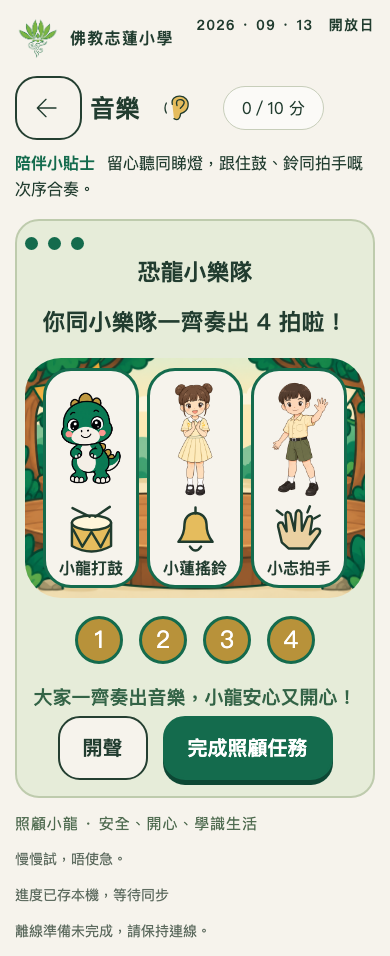
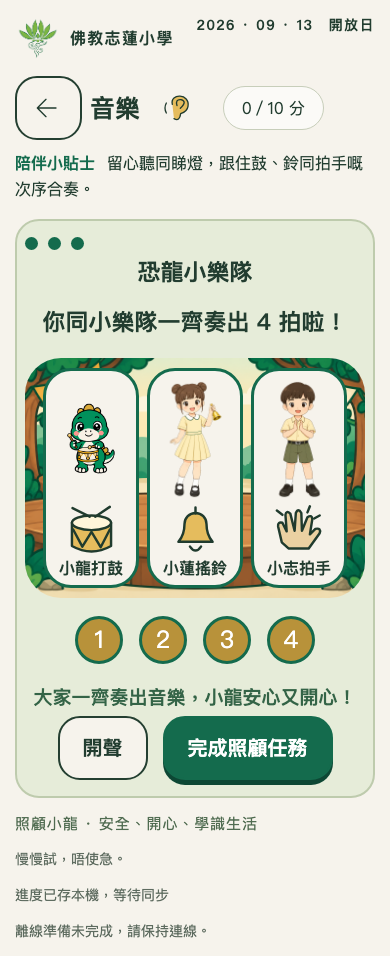
Complete music character sprites and clean up visibility listener

Changed region(s): [[0.1538, 0.3944, 0.3077, 0.5157], [0.7077, 0.3944, 0.8308, 0.546], [0.4308, 0.3944, 0.5846, 0.5157]]

diff --git a/sw.js b/sw.js
@@ -1,7 +1,7 @@
 // Generated precache manifest. Rebuild whenever local assets change.
-const CACHE='dino-island-a9feb54aa8e3';
+const CACHE='dino-island-14a268ecd65b';
 const BASE=new URL('./',self.location.href);
-const ASSETS=["board/board.css","board/board.js","board/img/board-skin.png","board/index.html","hub/app.js","hub/audio/en/actions/freeze.wav","hub/audio/en/actions/hands.wav","hub/audio/en/actions/jump.wav","hub/audio/en/actions/left.wav","hub/audio/en/actions/right.wav","hub/audio/en/actions/sit.wav","hub/audio/en/actions/stand.wav","hub/audio/yue/actions/freeze.wav","hub/audio/yue/actions/hands.wav","hub/audio/yue/actions/left.wav","hub/audio/yue/actions/right.wav","hub/audio/yue/actions/sit.wav","hub/audio/yue/characters/fire.wav","hub/audio/yue/characters/moon.wav","hub/audio/yue/characters/mountain.wav","hub/audio/yue/characters/sun.wav","hub/audio/yue/characters/water.wav","hub/audio/yue/characters/wood.wav","hub/audio/yue/common/complete.wav","hub/audio/yue/common/hint.wav","hub/audio/yue/common/retry.wav","hub/audio/yue/common/welcome.wav","hub/audio/yue/intro/art.wav","hub/audio/yue/intro/chinese.wav","hub/audio/yue/intro/computing.wav","hub/audio/yue/intro/english.wav","hub/audio/yue/intro/general.wav","hub/audio/yue/intro/humanities.wav","hub/audio/yue/intro/mandarin.wav","hub/audio/yue/intro/math.wav","hub/audio/yue/intro/music.wav","hub/audio/yue/intro/pe.wav","hub/audio/yue/intro/science.wav","hub/audio/zh-CN/greetings/goodbye.wav","hub/audio/zh-CN/greetings/hello.wav","hub/audio/zh-CN/greetings/morning.wav","hub/audio/zh-CN/greetings/please.wav","hub/audio/zh-CN/greetings/thanks.wav","hub/audio/zh-CN/greetings/welcome.wav","hub/certificate.js","hub/games.js","hub/img/chars/dino-baby-eat.png","hub/img/chars/dino-baby-sleep.png","hub/img/chars/dino-baby.png","hub/img/chars/landmark-hatch.png","hub/img/chars/landmark-longneck.png","hub/img/chars/landmark-triceratops.png","hub/img/chars/xiaolian-clap.png","hub/img/chars/xiaolian-color.png","hub/img/chars/xiaolian-highfive.png","hub/img/chars/xiaolian-point.png","hub/img/chars/xiaolian-welcome.png","hub/img/chars/xiaolian-write.png","hub/img/chars/xiaozhi-highfive.png","hub/img/chars/xiaozhi-jump.png","hub/img/chars/xiaozhi-run.png","hub/img/chars/xiaozhi-sit.png","hub/img/chars/xiaozhi-step.png","hub/img/chars/xiaozhi-stretch.png","hub/img/chars/xiaozhi-tablet.png","hub/img/chars/xiaozhi-welcome.png","hub/img/games/art/dino-hatching.png","hub/img/games/art/egg-studio.png","hub/img/games/art/xiaozhi-surprised.png","hub/img/games/chinese/dino-drinking.png","hub/img/games/chinese/dino-walking.png","hub/img/games/chinese/mountain.png","hub/img/games/chinese/river.png","hub/img/games/chinese/volcano.png","hub/img/games/computing/coding-garden.png","hub/img/games/computing/dino-robot.png","hub/img/games/english/dino-celebrate.png","hub/img/games/english/dino-hands-up.png","hub/img/games/english/dino-jump.png","hub/img/games/english/dino-left.png","hub/img/games/english/dino-right.png","hub/img/games/english/dino-squat.png","hub/img/games/general/bedtime.png","hub/img/games/general/daytime.png","hub/img/games/general/dino-playing.png","hub/img/games/general/dino-waking.png","hub/img/games/general/dino-washing.png","hub/img/games/general/morning.png","hub/img/games/humanities/river-centre.png","hub/img/games/humanities/safe-forest.png","hub/img/games/humanities/volcano-edge.png","hub/img/games/mandarin/dino-goodbye.png","hub/img/games/mandarin/dino-greeting.png","hub/img/games/mandarin/dino-listening.png","hub/img/games/mandarin/dino-thanks.png","hub/img/games/mandarin/village.png","hub/img/games/math/dino-hungry.png","hub/img/games/math/feeding-garden.png","hub/img/games/math/friend-longneck.png","hub/img/games/math/friend-triceratops.png","hub/img/games/music/dino-drum.png","hub/img/games/music/music-stage.png","hub/img/games/pe/dino-coach.png","hub/img/games/pe/forest-arena.png","hub/img/games/pe/forest-visitor.png","hub/img/games/science/excavation.png","hub/img/map/island-path.png","hub/img/ui/cert-frame.png","hub/index.html","hub/modules/art.js","hub/modules/chinese-scenes.js","hub/modules/computing.js","hub/modules/fossil-art.js","hub/modules/general.js","hub/modules/humanities.js","hub/modules/mandarin.js","hub/modules/math.js","hub/modules/motion.js","hub/modules/music.js","hub/modules/pe-scene.js","hub/modules/science.js","hub/park-guides.js","index.html","setup/index.html","shared/certificate-link.js","shared/config.js","shared/core.js","shared/game-clock-gate.js","shared/game-state.js","shared/icons.js","shared/img/school-logo.png","shared/models/pose-landmarker-lite-v1.task","shared/network.js","shared/offline.js","shared/pose-actions.js","shared/pose-camera.js","shared/qrcode.js","shared/recorder.js","shared/sequence.js","shared/storage.js","shared/style.css","shared/vendor/mediapipe/vision-bundle.js","shared/vendor/mediapipe/wasm/vision_wasm_internal.js","shared/vendor/mediapipe/wasm/vision_wasm_internal.wasm","shared/vendor/mediapipe/wasm/vision_wasm_nosimd_internal.js","shared/vendor/mediapipe/wasm/vision_wasm_nosimd_internal.wasm","shared/voice.js","hub/","board/","setup/"].map(p=>new URL(p,BASE).href);
+const ASSETS=["board/board.css","board/board.js","board/img/board-skin.png","board/index.html","hub/app.js","hub/audio/en/actions/freeze.wav","hub/audio/en/actions/hands.wav","hub/audio/en/actions/jump.wav","hub/audio/en/actions/left.wav","hub/audio/en/actions/right.wav","hub/audio/en/actions/sit.wav","hub/audio/en/actions/stand.wav","hub/audio/yue/actions/freeze.wav","hub/audio/yue/actions/hands.wav","hub/audio/yue/actions/left.wav","hub/audio/yue/actions/right.wav","hub/audio/yue/actions/sit.wav","hub/audio/yue/characters/fire.wav","hub/audio/yue/characters/moon.wav","hub/audio/yue/characters/mountain.wav","hub/audio/yue/characters/sun.wav","hub/audio/yue/characters/water.wav","hub/audio/yue/characters/wood.wav","hub/audio/yue/common/complete.wav","hub/audio/yue/common/hint.wav","hub/audio/yue/common/retry.wav","hub/audio/yue/common/welcome.wav","hub/audio/yue/intro/art.wav","hub/audio/yue/intro/chinese.wav","hub/audio/yue/intro/computing.wav","hub/audio/yue/intro/english.wav","hub/audio/yue/intro/general.wav","hub/audio/yue/intro/humanities.wav","hub/audio/yue/intro/mandarin.wav","hub/audio/yue/intro/math.wav","hub/audio/yue/intro/music.wav","hub/audio/yue/intro/pe.wav","hub/audio/yue/intro/science.wav","hub/audio/zh-CN/greetings/goodbye.wav","hub/audio/zh-CN/greetings/hello.wav","hub/audio/zh-CN/greetings/morning.wav","hub/audio/zh-CN/greetings/please.wav","hub/audio/zh-CN/greetings/thanks.wav","hub/audio/zh-CN/greetings/welcome.wav","hub/certificate.js","hub/games.js","hub/img/chars/dino-baby-eat.png","hub/img/chars/dino-baby-sleep.png","hub/img/chars/dino-baby.png","hub/img/chars/landmark-hatch.png","hub/img/chars/landmark-longneck.png","hub/img/chars/landmark-triceratops.png","hub/img/chars/xiaolian-clap.png","hub/img/chars/xiaolian-color.png","hub/img/chars/xiaolian-highfive.png","hub/img/chars/xiaolian-point.png","hub/img/chars/xiaolian-welcome.png","hub/img/chars/xiaolian-write.png","hub/img/chars/xiaozhi-highfive.png","hub/img/chars/xiaozhi-jump.png","hub/img/chars/xiaozhi-run.png","hub/img/chars/xiaozhi-sit.png","hub/img/chars/xiaozhi-step.png","hub/img/chars/xiaozhi-stretch.png","hub/img/chars/xiaozhi-tablet.png","hub/img/chars/xiaozhi-welcome.png","hub/img/games/art/dino-hatching.png","hub/img/games/art/egg-studio.png","hub/img/games/art/xiaozhi-surprised.png","hub/img/games/chinese/dino-drinking.png","hub/img/games/chinese/dino-walking.png","hub/img/games/chinese/mountain.png","hub/img/games/chinese/river.png","hub/img/games/chinese/volcano.png","hub/img/games/computing/coding-garden.png","hub/img/games/computing/dino-robot.png","hub/img/games/english/dino-celebrate.png","hub/img/games/english/dino-hands-up.png","hub/img/games/english/dino-jump.png","hub/img/games/english/dino-left.png","hub/img/games/english/dino-right.png","hub/img/games/english/dino-squat.png","hub/img/games/general/bedtime.png","hub/img/games/general/daytime.png","hub/img/games/general/dino-playing.png","hub/img/games/general/dino-waking.png","hub/img/games/general/dino-washing.png","hub/img/games/general/morning.png","hub/img/games/humanities/river-centre.png","hub/img/games/humanities/safe-forest.png","hub/img/games/humanities/volcano-edge.png","hub/img/games/mandarin/dino-goodbye.png","hub/img/games/mandarin/dino-greeting.png","hub/img/games/mandarin/dino-listening.png","hub/img/games/mandarin/dino-thanks.png","hub/img/games/mandarin/village.png","hub/img/games/math/dino-hungry.png","hub/img/games/math/feeding-garden.png","hub/img/games/math/friend-longneck.png","hub/img/games/math/friend-triceratops.png","hub/img/games/music/dino-drum.png","hub/img/games/music/music-stage.png","hub/img/games/music/xiaolian-bell.png","hub/img/games/music/xiaozhi-percussion.png","hub/img/games/pe/dino-coach.png","hub/img/games/pe/forest-arena.png","hub/img/games/pe/forest-visitor.png","hub/img/games/science/excavation.png","hub/img/map/island-path.png","hub/img/ui/cert-frame.png","hub/index.html","hub/modules/art.js","hub/modules/chinese-scenes.js","hub/modules/computing.js","hub/modules/fossil-art.js","hub/modules/general.js","hub/modules/humanities.js","hub/modules/mandarin.js","hub/modules/math.js","hub/modules/motion.js","hub/modules/music.js","hub/modules/pe-scene.js","hub/modules/science.js","hub/park-guides.js","index.html","setup/index.html","shared/certificate-link.js","shared/config.js","shared/core.js","shared/game-clock-gate.js","shared/game-state.js","shared/icons.js","shared/img/school-logo.png","shared/models/pose-landmarker-lite-v1.task","shared/network.js","shared/offline.js","shared/pose-actions.js","shared/pose-camera.js","shared/qrcode.js","shared/recorder.js","shared/sequence.js","shared/storage.js","shared/style.css","shared/vendor/mediapipe/vision-bundle.js","shared/vendor/mediapipe/wasm/vision_wasm_internal.js","shared/vendor/mediapipe/wasm/vision_wasm_internal.wasm","shared/vendor/mediapipe/wasm/vision_wasm_nosimd_internal.js","shared/vendor/mediapipe/wasm/vision_wasm_nosimd_internal.wasm","shared/voice.js","hub/","board/","setup/"].map(p=>new URL(p,BASE).href);
 self.addEventListener('install',e=>e.waitUntil(caches.open(CACHE).then(c=>c.addAll(ASSETS))));
 self.addEventListener('activate',e=>e.waitUntil(Promise.all([caches.keys().then(keys=>Promise.all(keys.filter(k=>k.startsWith('dino-island-')&&k!==CACHE).map(k=>caches.delete(k)))),self.clients.claim()])));
 self.addEventListener('message',e=>{if(e.data?.type!=='CHECK_OFFLINE'||!e.ports[0])return;e.waitUntil(caches.open(CACHE).then(async c=>{const present=await Promise.all(ASSETS.map(url=>c.match(url)));e.ports[0].postMessage({type:'OFFLINE_STATUS',version:CACHE,complete:present.every(Boolean),missing:present.filter(r=>!r).length,total:ASSETS.length});}).catch(()=>e.ports[0].postMessage({type:'OFFLINE_STATUS',complete:false,missing:ASSETS.length,total:ASSETS.length})));});

diff --git a/hub/modules/music.js b/hub/modules/music.js
@@ -19,7 +19,7 @@ export function mountMusic(root,state,save,finish){
  function flash(i){const button=root.querySelector(`[data-band="${i}"]`);button?.classList.add('band-lit');tone(i);later(()=>button?.classList.remove('band-lit'),400);}
  function render(){
   const pattern=patterns[state.round];
-  root.innerHTML=`<div class="rounds" aria-label="第 ${state.round+1} 回合，共三回合">${patterns.map((_,i)=>`<span class="round-dot ${i<=state.round?'done':''}"></span>`).join('')}</div><h2 class="game-instruction">恐龍小樂隊</h2><p class="game-instruction">${state.roundDone?`你同小樂隊一齊奏出 ${pattern.length} 拍啦！`:`先睇燈、聽 ${pattern.length} 拍，再輪到你。`}</p><div class="band-stage ${state.roundDone?'band-celebrating':''}">${['dino-baby','xiaolian-clap','xiaozhi-highfive'].map((file,i)=>`<button class="band-player" data-band="${i}" aria-label="${names[i]}" disabled><img class="character" src="${i===0?'img/games/music/dino-drum.png':`img/chars/${file}.png`}" alt="${names[i]}"><span class="band-instrument">${instrument(i)}</span><span>${names[i]}</span></button>`).join('')}</div><div class="band-progress" aria-label="跟拍進度">${pattern.map((_,i)=>`<span data-beat="${i}" class="${state.roundDone?'done':''}">${i+1}</span>`).join('')}</div><p class="feedback" role="status">${state.roundDone?'大家一齊奏出音樂，小龍安心又開心！':'按示範開始，燈光會話你知輪到邊個。'}</p><div class="actions"><button id="band-demo" ${state.roundDone?'hidden':''}>睇燈聽示範</button><button id="band-mute" aria-pressed="${state.muted}">${state.muted?'開聲':'關聲'}</button>${!state.roundDone&&hintLevel(state.attempts)==='guided'?'<button id="band-help">一步一步跟燈</button>':''}${state.roundDone?`<button class="primary" id="band-next">${state.round===2?'完成照顧任務':'下一段音樂'}</button>`:''}</div>`;
+  root.innerHTML=`<div class="rounds" aria-label="第 ${state.round+1} 回合，共三回合">${patterns.map((_,i)=>`<span class="round-dot ${i<=state.round?'done':''}"></span>`).join('')}</div><h2 class="game-instruction">恐龍小樂隊</h2><p class="game-instruction">${state.roundDone?`你同小樂隊一齊奏出 ${pattern.length} 拍啦！`:`先睇燈、聽 ${pattern.length} 拍，再輪到你。`}</p><div class="band-stage ${state.roundDone?'band-celebrating':''}">${['dino-drum','xiaolian-bell','xiaozhi-percussion'].map((file,i)=>`<button class="band-player" data-band="${i}" aria-label="${names[i]}" disabled><img class="character" src="img/games/music/${file}.png" alt="${names[i]}"><span class="band-instrument">${instrument(i)}</span><span>${names[i]}</span></button>`).join('')}</div><div class="band-progress" aria-label="跟拍進度">${pattern.map((_,i)=>`<span data-beat="${i}" class="${state.roundDone?'done':''}">${i+1}</span>`).join('')}</div><p class="feedback" role="status">${state.roundDone?'大家一齊奏出音樂，小龍安心又開心！':'按示範開始，燈光會話你知輪到邊個。'}</p><div class="actions"><button id="band-demo" ${state.roundDone?'hidden':''}>睇燈聽示範</button><button id="band-mute" aria-pressed="${state.muted}">${state.muted?'開聲':'關聲'}</button>${!state.roundDone&&hintLevel(state.attempts)==='guided'?'<button id="band-help">一步一步跟燈</button>':''}${state.roundDone?`<button class="primary" id="band-next">${state.round===2?'完成照顧任務':'下一段音樂'}</button>`:''}</div>`;
   root.querySelector('#band-mute').onclick=()=>{state.muted=!state.muted;save();if(state.muted)context?.suspend().catch(()=>{});const b=root.querySelector('#band-mute');b.textContent=state.muted?'開聲':'關聲';b.setAttribute('aria-pressed',String(state.muted));};
   root.querySelector('#band-demo').onclick=()=>demo();
   root.querySelector('#band-help')?.addEventListener('click',()=>demo(true));
@@ -40,5 +40,5 @@ export function mountMusic(root,state,save,finish){
  }
  const background=()=>{if(document.hidden){cancel();context?.suspend().catch(()=>{});if(live)render();}};
  document.addEventListener('visibilitychange',background);render();
- return()=>{live=false;cancel();context?.close().catch(()=>{});document.addEventListener('visibilitychange',background);delete root.dataset.guided;};
+ return()=>{live=false;cancel();context?.close().catch(()=>{});document.removeEventListener('visibilitychange',background);delete root.dataset.guided;};
 }

diff --git a/shared/style.css b/shared/style.css
@@ -129,3 +129,5 @@
 .egg-guide.is-surprised{object-fit:cover}
 
 .pe-scene .pe-cheer{position:absolute;right:5%;bottom:6%;width:25%;height:60%;object-fit:contain;z-index:2}
+
+.band-player:not(:first-child)>.character{object-fit:cover}

diff --git a/docs/ASSET-REMAINING.md b/docs/ASSET-REMAINING.md
@@ -1,6 +1,6 @@
 # 尚欠遊戲素材
 
-來源：`Dino Island｜11 科恐龍遊戲 Game Module Planning.md`。已按 `game-update-v2` 的 `hub/modules/` 核對。以下 6 項檔案均不存在，manifest 仍保留未完成狀態。
+來源：`Dino Island｜11 科恐龍遊戲 Game Module Planning.md`。已按 `game-update-v2` 的 `hub/modules/` 核對。以下 4 項檔案均不存在，manifest 仍保留未完成狀態。
 
 起床小龍最初造型不一致的圖已撤下。2026-09-10 用戶批准程式去背修邊後，改用參考原定角色的新動作稿，處理成 1024×1024 真透明 PNG，已核對奶油底合成並接入常識站。此批准同樣適用後續已核對造型的角色去背；下表的「待批准」屬早期記錄，現可進行處理。
 
@@ -8,8 +8,6 @@
 |---|---|---|---|---|
 | humanities | `games/humanities/xiaolian-explorer.png` | `chars/xiaolian-point.png` | 小蓮探險引導 | 製作真透明角色圖 |
 | humanities | `games/humanities/xiaozhi-explorer.png` | `chars/xiaozhi-welcome.png` | 小志探險 | 製作真透明角色圖 |
-| music | `games/music/xiaolian-bell.png` | `chars/xiaolian-clap.png` + inline bell | 小蓮搖鈴 | 製作真透明角色圖 |
-| music | `games/music/xiaozhi-percussion.png` | `chars/xiaozhi-highfive.png` + inline clap | 小志拍手 | 製作真透明角色圖 |
 | science | `games/science/xiaolian-scientist.png` | `chars/xiaolian-point.png` | 小蓮科學家 | 製作真透明角色圖 |
 | science | `games/science/xiaozhi-scientist.png` | `chars/xiaozhi-welcome.png` | 小志科學家 | 製作真透明角色圖 |
 
